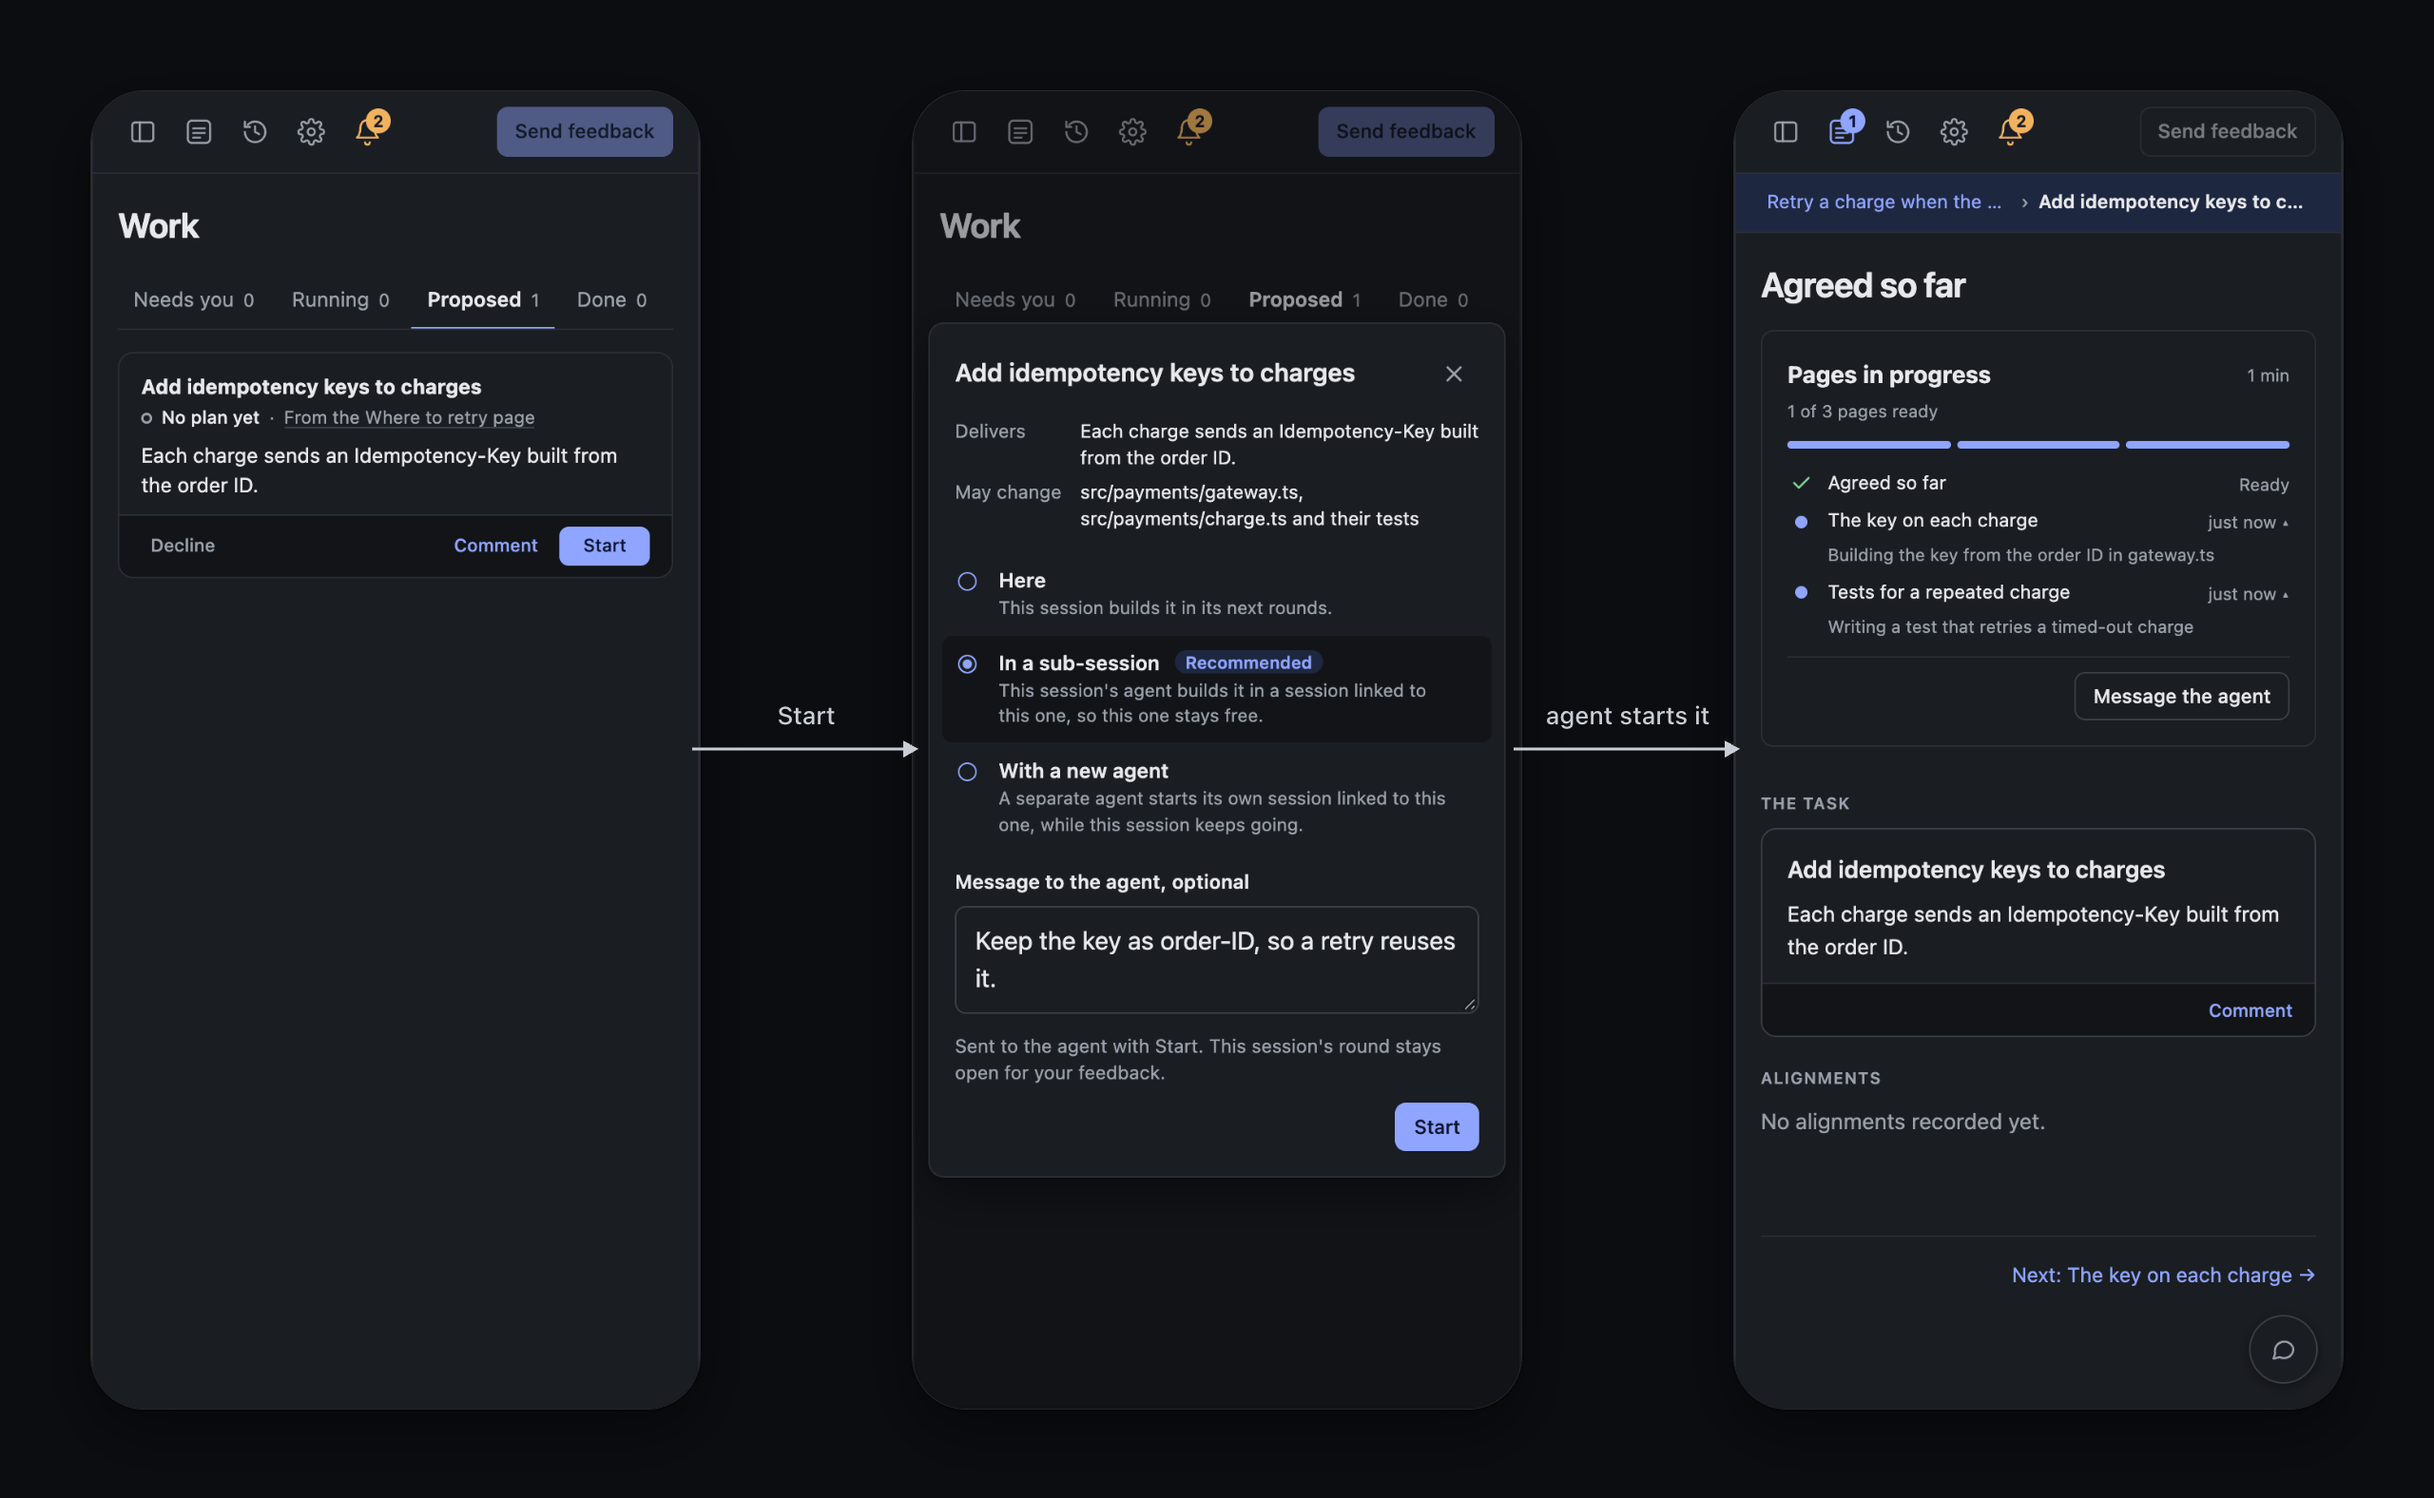
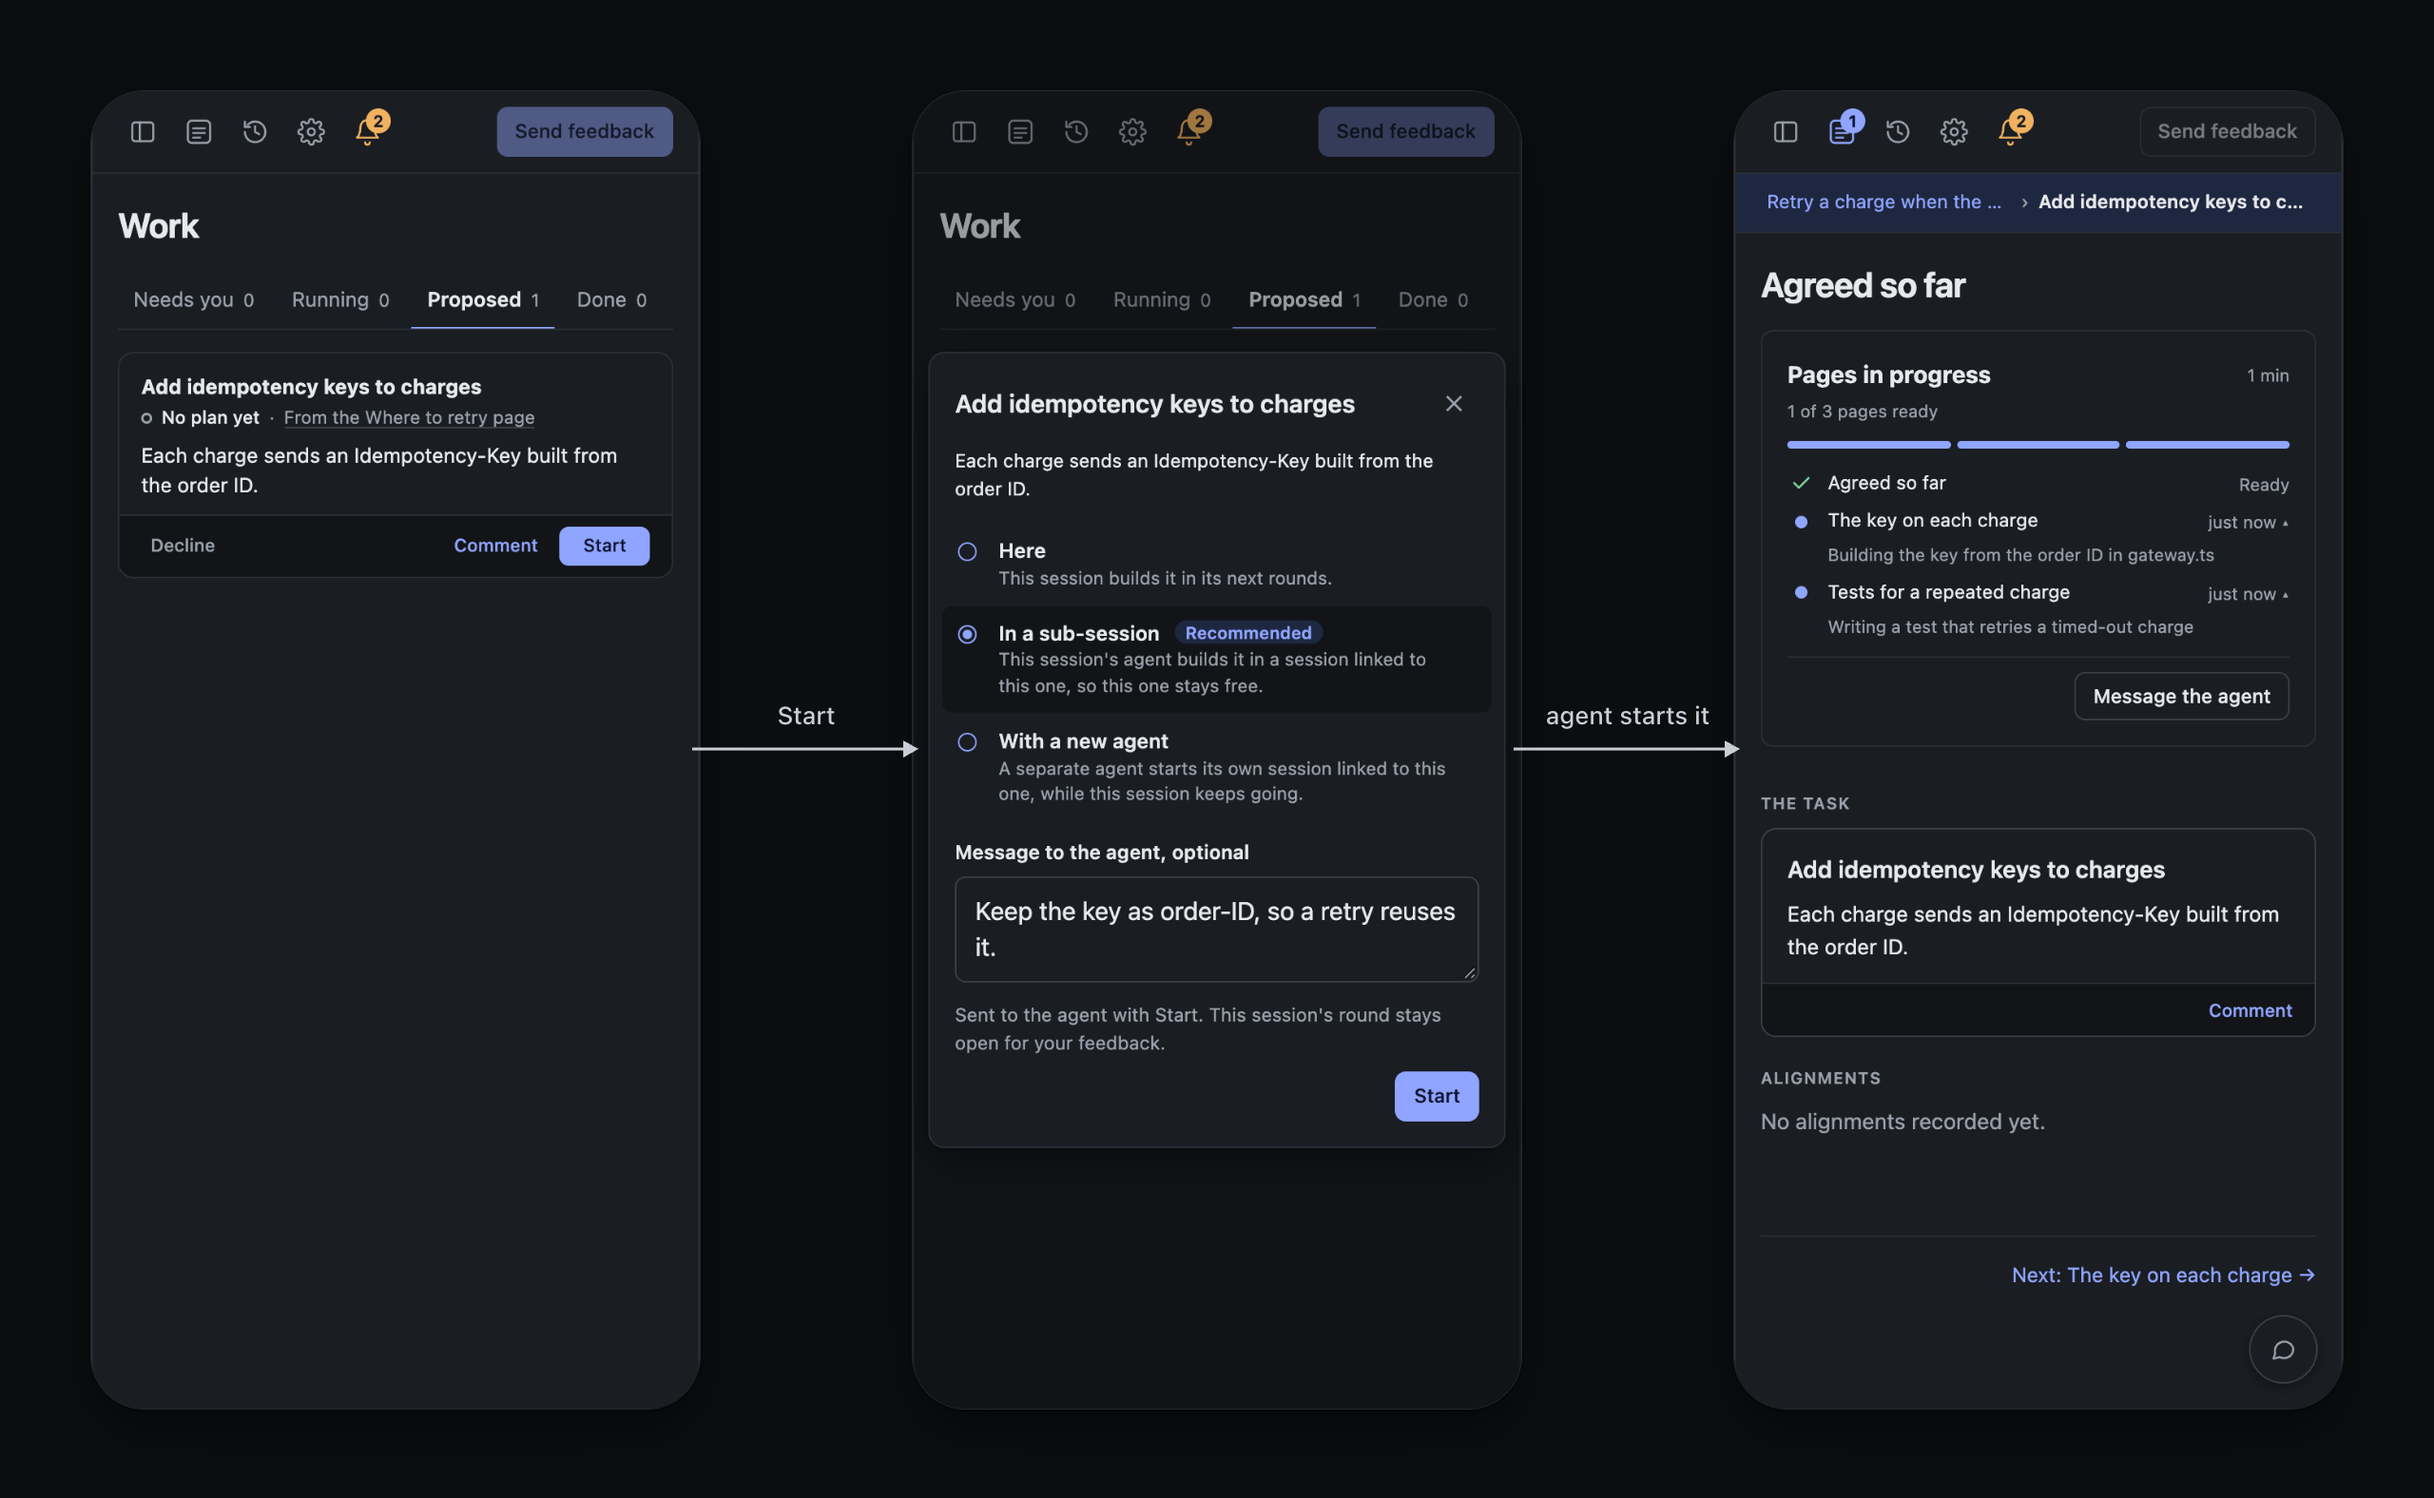
Record a proposal with what it delivers and where it runs
A proposal carried five pieces of the agent's text: what it delivers, what
it may change, where it should run, why, and where it came from. The
reviewer settled that a proposal says only what the work delivers and where
to run it, so pair propose drops --changes, --reason and --source, and
refuses each as a flag it does not take. A new card takes --title,
--delivers and --recommend. --page ROUND/PAGE and --thread ID stay
optional and record where the work came up.

The hub records the page's title with --page, from the round's page list,
and the card names its link itself: "From the Outline page", "From Agreed
so far" or "From a thread", in place of the agent's --source text. A card
with neither link has no line beside its state. The Start popup shows what
the card delivers under its title, with no Delivers or May change labels,
and pair read and pair start --from print the card without May change.

Cards already on disk keep their changes, reason and source.text fields.
pair stops showing them, and an old card from a page, recorded without the
page's title, reads "From a page".

The guide's command example, the start moments, the docs and the README's
Work image follow. The tests that record cards drop the old fields, and new
checks cover a propose without them, the refused --changes, the card's line
naming its page, and the popup without labels.

Changed region(s): [[0.375, 0.2176, 0.625, 0.7773]]

diff --git a/src/frame/pages/work.css b/src/frame/pages/work.css
@@ -143,23 +143,14 @@
   font-size: var(--text-meta);
   line-height: 1.6;
 }
-/* The Start popup. The card sits a little closer under the title than a
-   dialog's body usually does. */
+/* The Start popup. What the card delivers sits a little closer under the
+   title than a dialog's body usually does. */
 .dialog.start .dialog-head {
   margin-bottom: 12px;
 }
-.start-card {
-  display: grid;
-  grid-template-columns: auto minmax(0, 1fr);
-  gap: 4px 12px;
+.start-delivers {
   margin: 0 0 14px;
   font-size: var(--text-small);
-}
-.start-card dt {
-  color: var(--muted);
-}
-.start-card dd {
-  margin: 0;
 }
 .start-choices .dialog-row {
   align-items: start;

diff --git a/src/frame/app/dialogs.html b/src/frame/app/dialogs.html
@@ -218,12 +218,7 @@
     <h2 id="start-title" tabindex="-1" autofocus></h2>
   </div>
   <div class="dialog-body">
-    <dl class="start-card">
-      <dt>Delivers</dt>
-      <dd id="start-delivers"></dd>
-      <dt>May change</dt>
-      <dd id="start-changes"></dd>
-    </dl>
+    <p class="start-delivers" id="start-delivers"></p>
     <div
       class="dialog-list start-choices"
       role="radiogroup"

diff --git a/docs/reference/commands.md b/docs/reference/commands.md
@@ -13,7 +13,7 @@ the version.
 | `pair progress --page ID --note TEXT`                     | Report a page started, a note on a page, or, without `--page`, a note on the round. The progress card shows each report.                                                                                        |
 | `pair publish --file HTML`                                | Publish a built page. A round's first publish is Agreed, with `--pages`.                                                                                                                                        |
 | `pair reply --thread ID --text TEXT`, or `--file HTML`    | Post the agent's reply in a thread: text, or an HTML fragment that `pair build`'s page checks accept.                                                                                                           |
-| `pair propose --id ID`                                    | Record a proposal the reviewer can start, decline or comment on from Work, or with `--revise`, `--start WHERE`, `--done` or `--reopen` change the one with that ID. Any agent may run it.                       |
+| `pair propose --id ID`                                    | Record a proposal the reviewer can start, decline or comment on from Work, or with `--revise`, `--done` or `--reopen` change the one with that ID. Any agent may run it.                                        |
 | `pair plan --proposal ID --rounds ROUNDS`                 | Attach a plan to a proposal from built pages, `--pages`, one `--file` each and `--source`, or replace the plan it has. The reviewer opens it from its card and can download it.                                 |
 | `pair status`, `pause`                                    | Print the session's state, or pause it. You end a session by closing it in the browser.                                                                                                                         |
 | `pair build SOURCE.json OUTPUT.html`                      | Build a page from its source, or list every structural problem, including a field pair does not know, and write nothing.                                                                                        |

diff --git a/docs/concepts/proposals-and-work.md b/docs/concepts/proposals-and-work.md
@@ -2,9 +2,8 @@
 
 A **proposal** is work the agent suggests and you decide on. The agent
 records one whenever it sees work worth doing, including the work your task
-calls for, with what it delivers, what it may change, where the agent
-recommends it runs and why. When you start a proposal, you approve exactly
-that, and nothing more.
+calls for, with what it delivers and where the agent recommends it runs.
+When you start a proposal, you approve what it delivers, and nothing more.
 
 ## The Work page
 
@@ -33,9 +32,8 @@ or a thread shows a proposal as the same card, with the same buttons.
 
 ## Where the work runs
 
-The Start popup shows what the proposal delivers and may change, the three
-places the work can run, with the agent's recommendation marked, and a
-message to the agent.
+The Start popup shows what the proposal delivers, the three places the work
+can run, with the agent's recommendation marked, and a message to the agent.
 
 | Choice           | What happens                                                                                                                                                                                                                                                       |
 | ---------------- | ------------------------------------------------------------------------------------------------------------------------------------------------------------------------------------------------------------------------------------------------------------------ |

diff --git a/guide/pair.md b/guide/pair.md
@@ -98,9 +98,9 @@ reviewer saw, in the before-after component.
 A proposal is work you suggest and the reviewer decides on. Record one with
 `pair propose` as soon as you see work worth doing, including the work the
 task itself calls for, and run `pair guide proposals.md` before the first
-one for its commands. Say exactly what it delivers and what it may change,
-because starting it approves only that. Recommend where it should run and
-whether it needs a plan first, with your reason.
+one for its commands. Say exactly what it delivers, because starting it
+approves only that. Recommend where it should run and whether it needs a
+plan first.
 
 Show a proposal on the page where it came up, with the proposal component,
 so the reviewer can start it from there. When `pair read` prints that the
@@ -128,8 +128,7 @@ as soon as the reviewer can judge it, so they can redirect you while you
 build the rest. When the plan leaves something open, decide in line with
 the plan, keep building, and say on the next page what you decided and why.
 Fix a problem you find while building only when the approved result needs
-the fix and the proposal allows that change, say so on the next page, and
-propose anything else.
+the fix, say so on the next page, and propose anything else.
 When the work is done, its last page explains it well enough that whoever
 owns it can review it and keep it. For work started in this session, run
 `pair propose --done` after you publish that page.

diff --git a/guide/proposals.md b/guide/proposals.md
@@ -1,22 +1,19 @@
 # Proposals
 
-Record each proposal with `pair propose` and every field:
+Record each proposal with `pair propose`:
 
 ```sh
 pair propose --session-dir PATH --id phone-sidebar \
   --title "Slide the sidebar over the page on phones" \
   --delivers "The sidebar opens from an icon and slides over the page below 700px" \
-  --changes "src/frame/app/ and the sidebar's CSS" \
-  --recommend here \
-  --reason "It changes only the frame, which this session already reads" \
-  --source "From the Commenting page" --page 14/commenting
+  --recommend here --page 14/commenting
 ```
 
 Give each proposal an ID of lowercase letters, digits and hyphens that the
-session does not have. `--recommend` names where the work should run,
-`here`, `sub-session` or `new-agent`, and `--reason` says why. `--source`
-says where the work came from, with `--page ROUND/PAGE` or `--thread ID`
-when it came from a page or a thread.
+session does not have. Give `--delivers` a sentence or two on what the work
+delivers, and `--recommend` where it should run: `here`, `sub-session` or
+`new-agent`. Add `--page ROUND/PAGE` or `--thread ID` when the work came up
+on a page or in a thread.
 
 Show a proposal on the page where it comes up with the proposal component,
 which `pair guide components/proposal/markup.html` prints, with the

diff --git a/guide/moments/start-from.md b/guide/moments/start-from.md
@@ -1,16 +1,14 @@
 `pair start --from` created this session for one proposal of the parent
 session, printed below. By starting that proposal, the reviewer approved
-what it says it delivers and may change, and nothing more. Where the
-reviewer's message in `<pair_start>` differs from the proposal, follow the
-message.
+what it says it delivers, and nothing more. Where the reviewer's message in
+`<pair_start>` differs from the proposal, follow the message.
 
 - Build the work in this session's rounds. When the proposal has a plan,
   build from the plan's page sources in the directory printed as Plan.
 - Publish each part the reviewer can judge as soon as it exists.
 - Read the parent's page sources, in its `src/` directory, when you need
   its context. Never run `pair start` on the parent session.
-- Fix a problem you find while building only when the work needs the fix
-  and the proposal allows that change. Record anything else with
-  `pair propose` in this session.
+- Fix a problem you find while building only when the work needs the fix.
+  Record anything else with `pair propose` in this session.
 - Run no `pair propose --done` for this proposal, because the hub marks it
   done when the reviewer closes this session.

diff --git a/guide/moments/read-start-here.md b/guide/moments/read-start-here.md
@@ -1,15 +1,13 @@
 The reviewer started this proposal here. By starting it, the reviewer
-approved what it says it delivers and may change, and nothing more. Where
-the reviewer's message in `<pair_start>` differs from the proposal, follow
-the message.
+approved what it says it delivers, and nothing more. Where the reviewer's
+message in `<pair_start>` differs from the proposal, follow the message.
 
 - Build the work in this session's next rounds. When the proposal has a
   plan, build from the plan's page sources in `plans/ID/src/` in the
   session's directory.
 - Publish each part the reviewer can judge as soon as it exists.
-- Fix a problem you find while building only when the work needs the fix
-  and the proposal allows that change. Record anything else with
-  `pair propose`.
+- Fix a problem you find while building only when the work needs the fix.
+  Record anything else with `pair propose`.
 - After you publish the work's last page, run
   `pair propose --session-dir PATH --id ID --done`. When later feedback asks
   for changes to the work, run the same command with `--reopen` in place of

diff --git a/guide/moments/read-start-sub-session.md b/guide/moments/read-start-sub-session.md
@@ -1,6 +1,5 @@
 The reviewer started this proposal in a sub-session. By starting it, the
-reviewer approved what it says it delivers and may change, and nothing
-more.
+reviewer approved what it says it delivers, and nothing more.
 
 - Run the `pair start --from` command in the next step now. It creates the
   sub-session, linked to this one, and makes you its holder.
